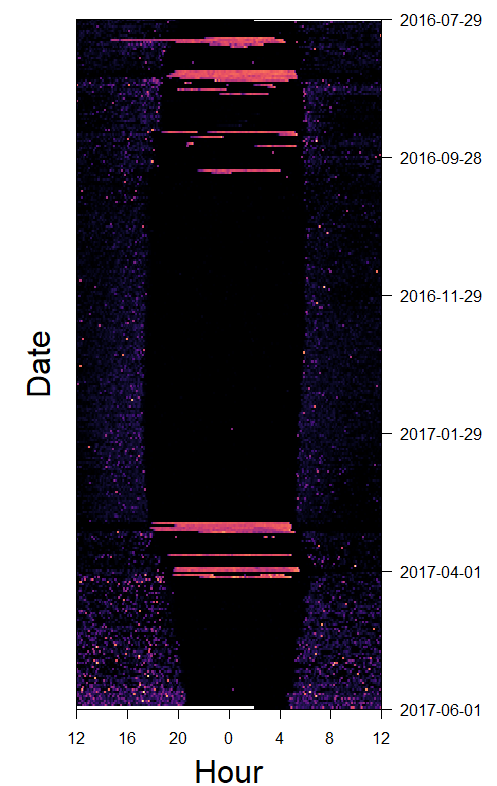
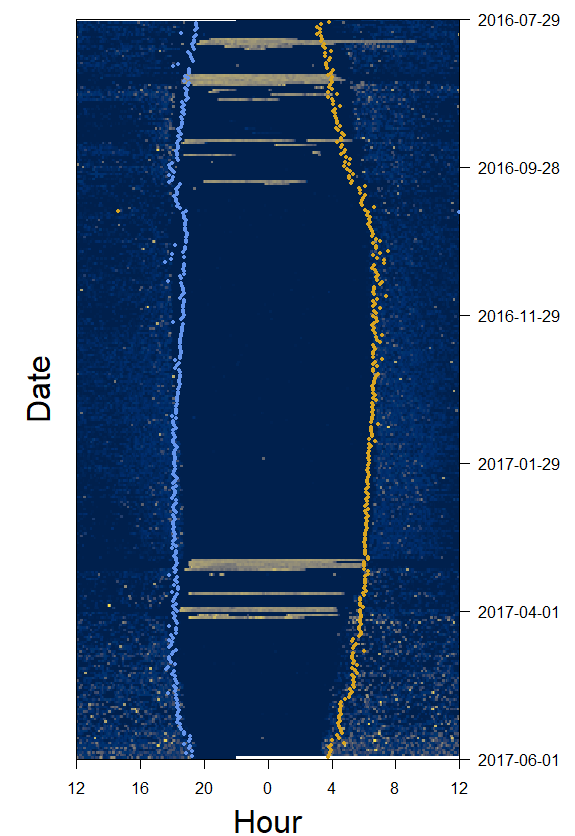
added twilight events to actinogram

diff --git a/README.md b/README.md
@@ -133,10 +133,13 @@ plotACTOGRAM(date = PAM_data$acceleration$date, activity = PAM_data$acceleration
 <img align="center" src="https://raw.githubusercontent.com/KiranLDA/PAMLr/master/graphics/daymiddle.png">
 
 
-or with night in the middle
+It is also possible to have night in the middle and then to plot sunrise and sunsets onto this, to see how activity changes as a function of sunlight.
+
 ```r
 par(mar=c(4,4,1,6))
-plotACTOGRAM(date = PAM_data$acceleration$date, activity = PAM_data$acceleration$act, offset=12)
+offset=12
+plotACTOGRAM(date = PAM_data$acceleration$date,activity = PAM_data$acceleration$act, offset=offset,col=viridis::cividis(90))
+addTWL(twilights$tFirst, offset=offset, col= ifelse(twilights$type == 1,  "goldenrod","cornflowerblue"), pch=16, cex=0.5)
 ```
 <img align="center" src="https://raw.githubusercontent.com/KiranLDA/PAMLr/master/graphics/nightmiddle.png">
 
